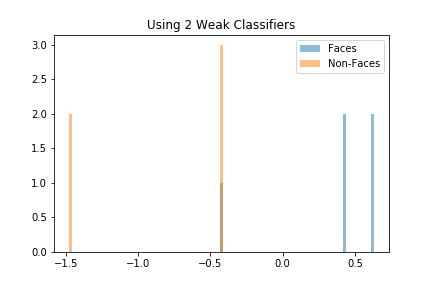
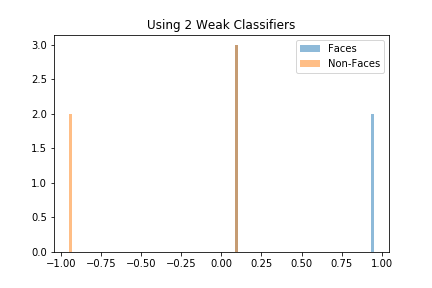
changed attributes of visualizer class

diff --git a/visualizer.py b/visualizer.py
@@ -11,8 +11,8 @@ class Visualizer:
 		self.labels = None
 	
 	def draw_histograms(self):
-		for t in self.strong_classifier_scores:
-			scores = self.strong_classifier_scores[t]
+		for t in self.histogram_intervals:
+			scores = self.strong_classifier_scores[t-1]
 			pos_scores = [scores[idx] for idx, label in enumerate(self.labels) if label == 1]
 			neg_scores = [scores[idx] for idx, label in enumerate(self.labels) if label == -1]
 
@@ -27,8 +27,8 @@ class Visualizer:
 
 	def draw_rocs(self):
 		plt.figure()
-		for t in self.strong_classifier_scores:
-			scores = self.strong_classifier_scores[t]
+		for t in self.top_wc_intervals:
+			scores = self.strong_classifier_scores[t-1]
 			fpr, tpr, _ = roc_curve(self.labels, scores)
 			plt.plot(fpr, tpr, label = 'No. %d Weak Classifiers' % t)
 		plt.legend(loc = 'lower right')
@@ -39,8 +39,8 @@ class Visualizer:
 
 	def draw_wc_accuracies(self):
 		plt.figure()
-		for t in self.weak_classifier_accuracies:
-			accuracies = self.weak_classifier_accuracies[t]
+		for t in self.top_wc_intervals:
+			accuracies = self.weak_classifier_accuracies[t-1]
 			plt.plot(accuracies, label = 'After %d Selection' % t)
 		plt.ylabel('Accuracy')
 		plt.xlabel('Weak Classifiers')
